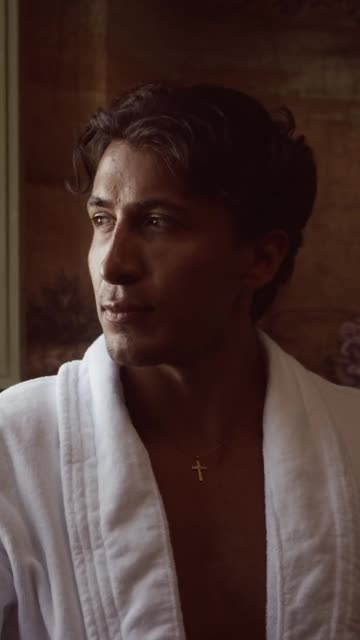
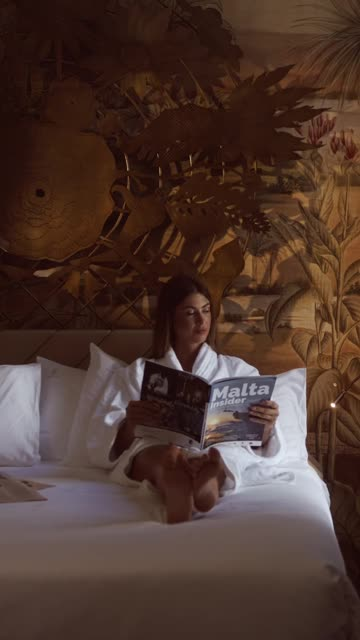
Round 15

diff --git a/data.js b/data.js
@@ -91,6 +91,7 @@ const DOCUMENTARIES = [
      gallery     { type:"gallery", dir:"images/…", photos:[ { file:"name", ratio:1.5 }, … ] }
                  (a preview block that opens the full gallery; ratio = width ÷ height; tiles in dir/m, large in dir/l, .webp)
    any clip can also take  start: 4.5  (seconds in, where it first starts playing)
+   a play-once clip can take  endFrame: 10.9  (the frame it rests on when it finishes, behind Replay)
    audio:true = has a sound button; once:true = plays once (with sound if allowed), then shows Replay.
    Pages without "projects" still use the simple "tiles" list.
    hero:  the full-screen video behind the page title (a Vimeo number),
@@ -156,14 +157,15 @@ const OTHER_WORK = {
             "Iniala Valletta stands on the bastions of Malta’s UNESCO-listed capital, looking out over the Grand Harbour. The hotel is made up of a collection of beautifully restored townhouses and palazzos, some with vaults dating back to the 1600s. It has become one of the most decorated hotels in the Mediterranean – Malta’s only Forbes Five-Star hotel for five years running, and in 2025 the first hotel on the island to receive two Michelin Keys. On the rooftop, ION Harbour by Simon Rogan holds two Michelin stars, which makes it Malta’s only two-star restaurant.",
             "I was brought in to create a full-length promotional video for the hotel (see featured above), along with a series of reels and short moments for social media. Alongside the films, I shot a collection of high-end photography for the hotel’s website and promotional use, which has since appeared in publications including Forbes and Condé Nast. With Iniala Valletta being a design and experience-led hotel, the aim was to capture Malta as a destination, as well as the serenity of the hotel itself."
           ] },
-          { type: "feature", video: "clips/hotels/iniala-social-malta.mp4?v=3", poster: "clips/hotels/iniala-social-malta.jpg?v=3", audio: true, once: true },
+          // endFrame: when a play-once clip finishes, it rests on the frame at this many seconds (behind the Replay button)
+          { type: "feature", video: "clips/hotels/iniala-social-malta.mp4?v=3", poster: "clips/hotels/iniala-social-malta.jpg?v=3", audio: true, once: true, endFrame: 10.885 },
           // start: seconds into the clip where it first starts playing. Some of these share shots with each other
           // (and with the featured clip), so they're staggered so the same shot doesn't play twice at once
           { type: "secondary", videos: [
-            { video: "clips/hotels/iniala-sailboat.mp4?v=3",          poster: "clips/hotels/iniala-sailboat.jpg?v=3" },
-            { video: "clips/hotels/iniala-sunset-sunrise.mp4?v=3",    poster: "clips/hotels/iniala-sunset-sunrise.jpg?v=3", start: 10.75 },
-            { video: "clips/hotels/iniala-brindis-ocean.mp4?v=3",     poster: "clips/hotels/iniala-brindis-ocean.jpg?v=3",  start: 4.5 },
-            { video: "clips/hotels/iniala-malta-destination.mp4?v=3", poster: "clips/hotels/iniala-malta-destination.jpg?v=3" }
+            { video: "clips/hotels/iniala-malta-destination.mp4?v=3", poster: "clips/hotels/iniala-malta-destination.jpg?v=3" },
+            { video: "clips/hotels/iniala-sunset-sunrise.mp4?v=3",    poster: "clips/hotels/iniala-sunset-sunrise.jpg?v=4", start: 12.5 },
+            { video: "clips/hotels/iniala-brindis-ocean.mp4?v=3",     poster: "clips/hotels/iniala-brindis-ocean.jpg?v=4",  start: 14.25 },
+            { video: "clips/hotels/iniala-sailboat.mp4?v=3",          poster: "clips/hotels/iniala-sailboat.jpg?v=3" }
           ] },
           // photo gallery: shows as one small preview block; clicking it opens the full gallery (the first three photos make the preview). Files live in  <dir>/m  (tiles) and  <dir>/l  (large)
           { type: "gallery", dir: "images/hotels/iniala-valletta", photos: [

diff --git a/main.js b/main.js
@@ -454,7 +454,7 @@
   /* ---------- Field Map: load the turning globe only as its section comes near ---------- */
   const fmBox = $('#fmGlobe');
   if (fmBox) {
-    const FMV = '20261011b';
+    const FMV = '20261011c';
     const load = src => new Promise((ok, no) => { const s = document.createElement('script'); s.src = src; s.onload = ok; s.onerror = no; document.head.appendChild(s); });
     const lo = new IntersectionObserver(async es => {
       if (!es[0].isIntersecting) return; lo.disconnect();
@@ -538,7 +538,7 @@
   const projects = S.projects || [{ client: S.group, title: S.title, blocks: [{ type: 'grid', items: S.tiles || [] }] }];
   const row = document.createElement('div'); row.className = 'wk-row'; pin.appendChild(row);
   const mkVideo = (v, extra = '') => v.video
-    ? `<div class="it vid${extra}" data-src="${esc(v.video)}" ${v.start ? `data-start="${+v.start}"` : ''} ${v.audio ? 'data-audio' : ''} ${v.once ? 'data-once' : ''}><video muted playsinline preload="none" ${v.once ? '' : 'loop'} ${v.poster ? `poster="${esc(v.poster)}"` : ''}></video>
+    ? `<div class="it vid${extra}" data-src="${esc(v.video)}" ${v.start ? `data-start="${+v.start}"` : ''} ${v.endFrame != null ? `data-end="${+v.endFrame}"` : ''} ${v.audio ? 'data-audio' : ''} ${v.once ? 'data-once' : ''}><video muted playsinline preload="none" ${v.once ? '' : 'loop'} ${v.poster ? `poster="${esc(v.poster)}"` : ''}></video>
         ${v.audio ? `<div class="vc"><button type="button" class="snd" aria-label="Turn sound on">${svg(ICON.muted)}<span>Sound</span></button></div>` : ''}
         ${v.once ? `<button type="button" class="replay" aria-label="Replay">${'<span>' + svg(ICON.replay) + 'Replay</span>'}</button>` : ''}</div>`
     : `<div class="it ph"><div class="ph" style="height:100%">[ ${esc(v.note || '9:16 clip to come')} ]</div></div>`;
@@ -672,7 +672,11 @@
     const setSnd = on => { v.muted = !on; if (snd) { snd.innerHTML = svg(on ? ICON.sound : ICON.muted) + `<span>${on ? 'Sound on' : 'Sound'}</span>`; snd.setAttribute('aria-label', on ? 'Mute' : 'Turn sound on'); } };
     it._setSnd = setSnd;
     if (snd) snd.addEventListener('click', e => { e.stopPropagation(); setSnd(v.muted); if (v.paused) v.play().catch(() => {}); });
-    v.addEventListener('ended', () => { if (it.hasAttribute('data-once')) { it.classList.add('ended'); it._state = 'done'; } });
+    v.addEventListener('ended', () => {
+      if (!it.hasAttribute('data-once')) return;
+      it.classList.add('ended'); it._state = 'done';
+      if (it.dataset.end) v.currentTime = +it.dataset.end;   // rest on a chosen frame behind the Replay button
+    });
     if (rep) rep.addEventListener('click', () => { it.classList.remove('ended'); v.currentTime = 0; setSnd(true); v.play().catch(() => { setSnd(false); v.play(); }); });
   });
   function videoCheck() {

diff --git a/index.html b/index.html
@@ -11,11 +11,11 @@
 <link rel="preconnect" href="https://fonts.googleapis.com">
 <link rel="preconnect" href="https://fonts.gstatic.com" crossorigin>
 <link href="https://fonts.googleapis.com/css2?family=IBM+Plex+Mono:wght@400;500&family=Instrument+Serif:ital@0;1&family=Manrope:wght@300;400;500;600&display=swap" rel="stylesheet">
-<link rel="stylesheet" href="style.css?v=20261011b">
+<link rel="stylesheet" href="style.css?v=20261011c">
 <script type="application/ld+json">
 {"@context":"https://schema.org","@type":"Person","name":"Christian Marot","jobTitle":"Wildlife & Natural History Cinematographer","birthPlace":"London, UK","homeLocation":{"@type":"Place","name":"London, UK"},"email":"mailto:christian.marot@hotmail.com","url":"https://www.christianmarot.com","image":"https://www.christianmarot.com/images/christian-marot-wildlife-cinematographer.jpg","sameAs":["https://www.instagram.com/christianmarot/","https://vimeo.com/christianmarot","https://www.linkedin.com/in/christian-marot-9525902a/","https://www.imdb.com/name/nm6849161/"]}
 </script>
-<script src="data.js?v=20261011b"></script>
+<script src="data.js?v=20261011c"></script>
 </head>
 <body>
 
@@ -203,6 +203,6 @@
   <div class="base"><span>© 2026 Christian Marot · Wildlife &amp; Natural History Cinematographer, London</span><span>Portrait: Freddie Claire</span></div>
 </footer>
 
-<script src="main.js?v=20261011b"></script>
+<script src="main.js?v=20261011c"></script>
 </body>
 </html>

diff --git a/field-map.html b/field-map.html
@@ -312,12 +312,12 @@ a{color:inherit}
 
 <script src="https://cdn.jsdelivr.net/npm/d3@7.8.5/dist/d3.min.js"></script>
 <script src="https://cdn.jsdelivr.net/npm/topojson-client@3.1.0/dist/topojson-client.min.js"></script>
-<script src="data.js?v=20261011b"></script>
-<script src="fieldmap/geo.js?v=20261011b"></script>
-<script src="fieldmap/geo50.js?v=20261011b"></script>
-<script src="fieldmap/earth.js?v=20261011b"></script>
-<script src="fieldmap/sky.js?v=20261011b"></script>
-<script src="fieldmap/map.js?v=20261011b"></script>
+<script src="data.js?v=20261011c"></script>
+<script src="fieldmap/geo.js?v=20261011c"></script>
+<script src="fieldmap/geo50.js?v=20261011c"></script>
+<script src="fieldmap/earth.js?v=20261011c"></script>
+<script src="fieldmap/sky.js?v=20261011c"></script>
+<script src="fieldmap/map.js?v=20261011c"></script>
 
 </body>
 </html>

diff --git a/work.html b/work.html
@@ -9,8 +9,8 @@
 <link rel="preconnect" href="https://fonts.googleapis.com">
 <link rel="preconnect" href="https://fonts.gstatic.com" crossorigin>
 <link href="https://fonts.googleapis.com/css2?family=IBM+Plex+Mono:wght@400;500&family=Instrument+Serif:ital@0;1&family=Manrope:wght@300;400;500;600&display=swap" rel="stylesheet">
-<link rel="stylesheet" href="style.css?v=20261011b">
-<script src="data.js?v=20261011b"></script>
+<link rel="stylesheet" href="style.css?v=20261011c">
+<script src="data.js?v=20261011c"></script>
 </head>
 <body>
 
@@ -77,6 +77,6 @@
 </footer>
 
 <script src="https://player.vimeo.com/api/player.js"></script>
-<script src="main.js?v=20261011b"></script>
+<script src="main.js?v=20261011c"></script>
 </body>
 </html>
